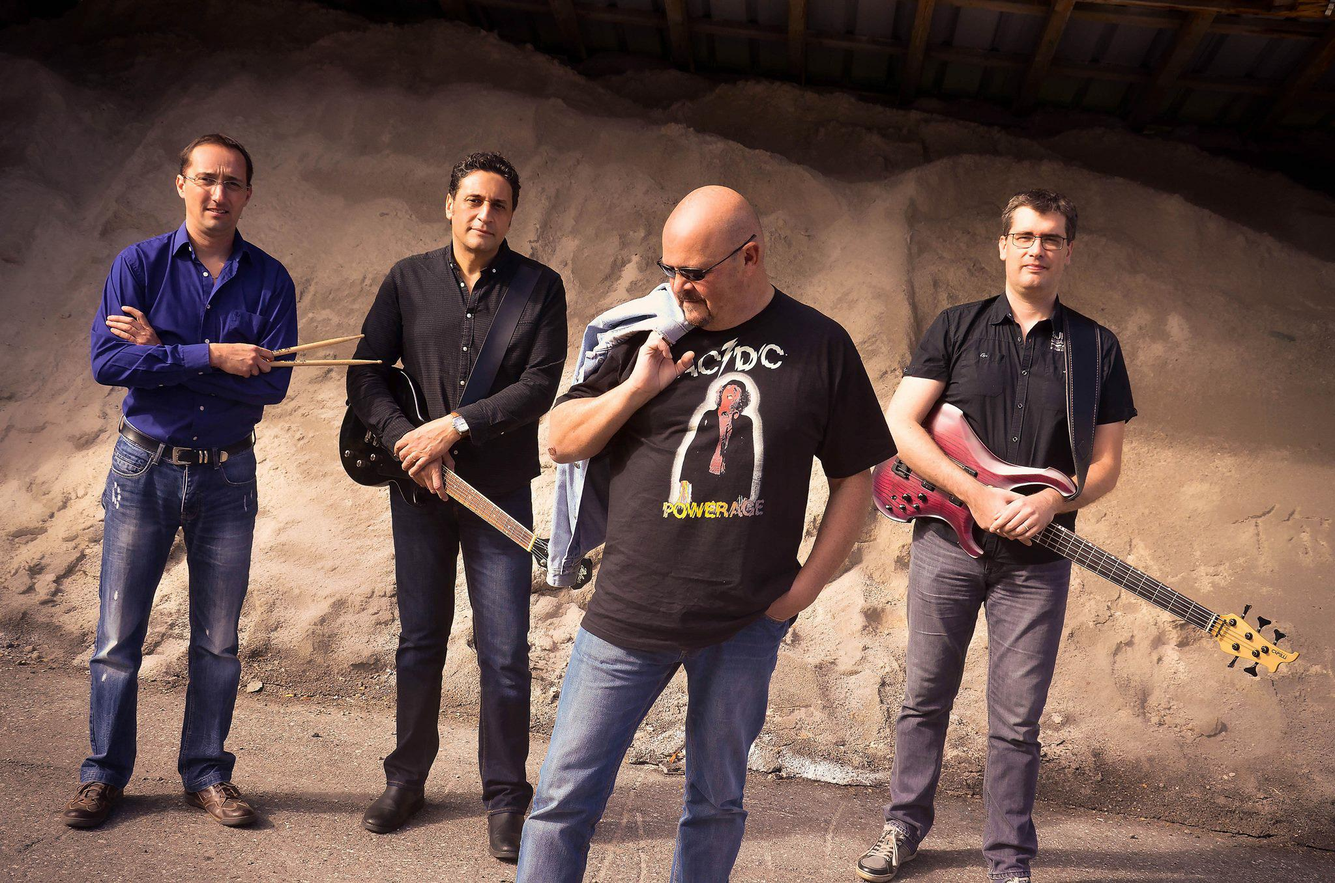
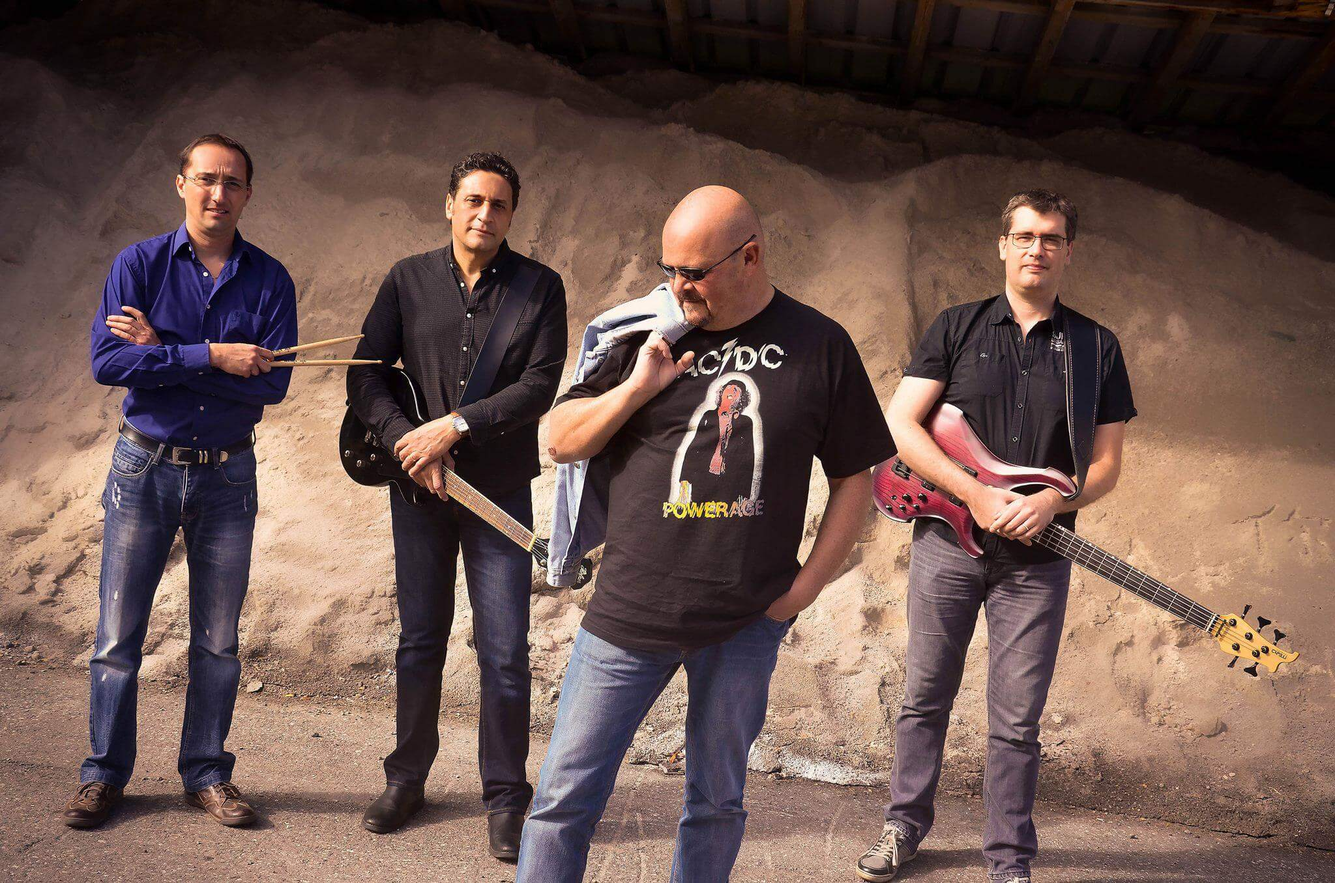
compress images

diff --git a/CSS/index.css b/CSS/index.css
@@ -230,7 +230,7 @@ h2 > a:hover:before {
   font-size: 20px;
   position: absolute;
   bottom: 0px;
-  left: -100%;
+  left: -110%;
   background: black;
   color:white;
   padding: 2px 8px;

diff --git a/index.html b/index.html
@@ -1,4 +1,4 @@
-<!DOCTYPE html lang="fr">
+<!DOCTYPE html>
 <html lang="fr">
   <head>
     <meta charset="utf-8">
